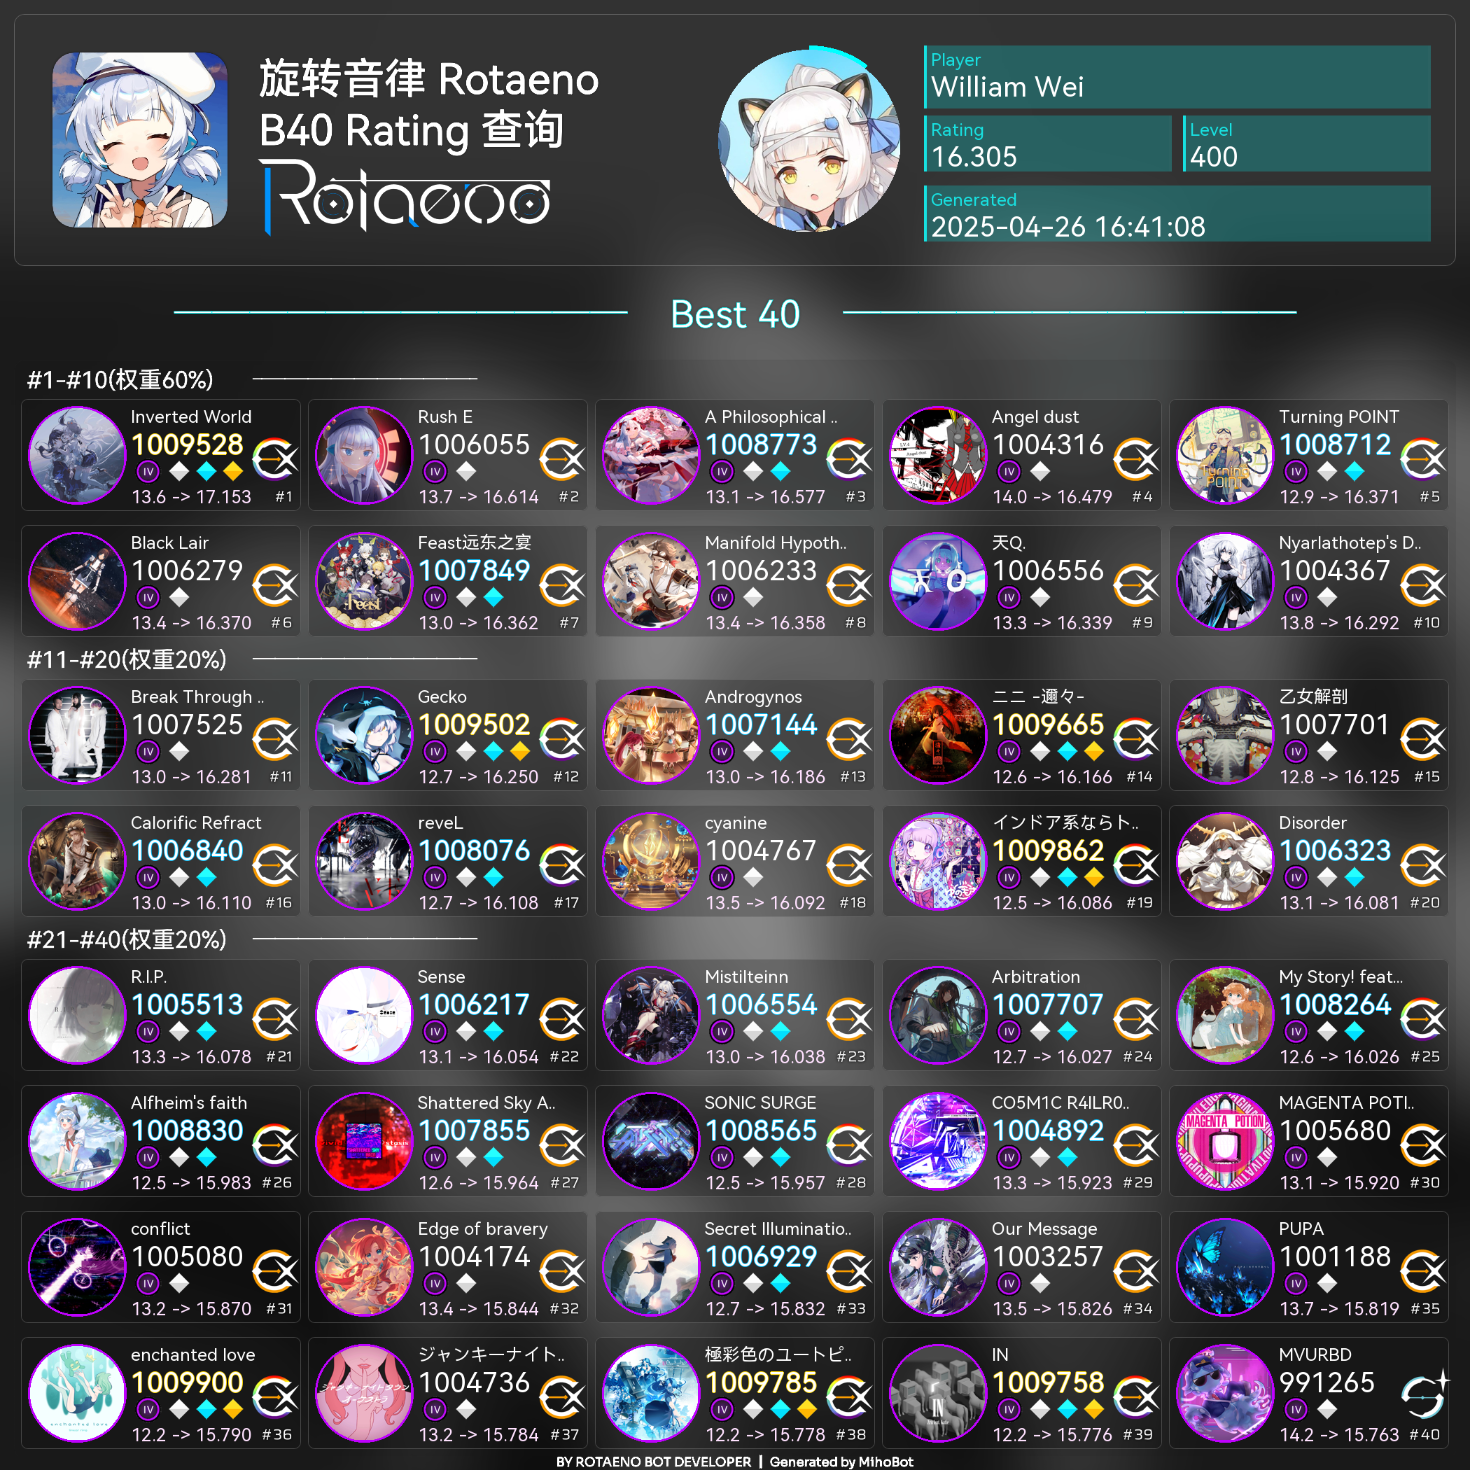
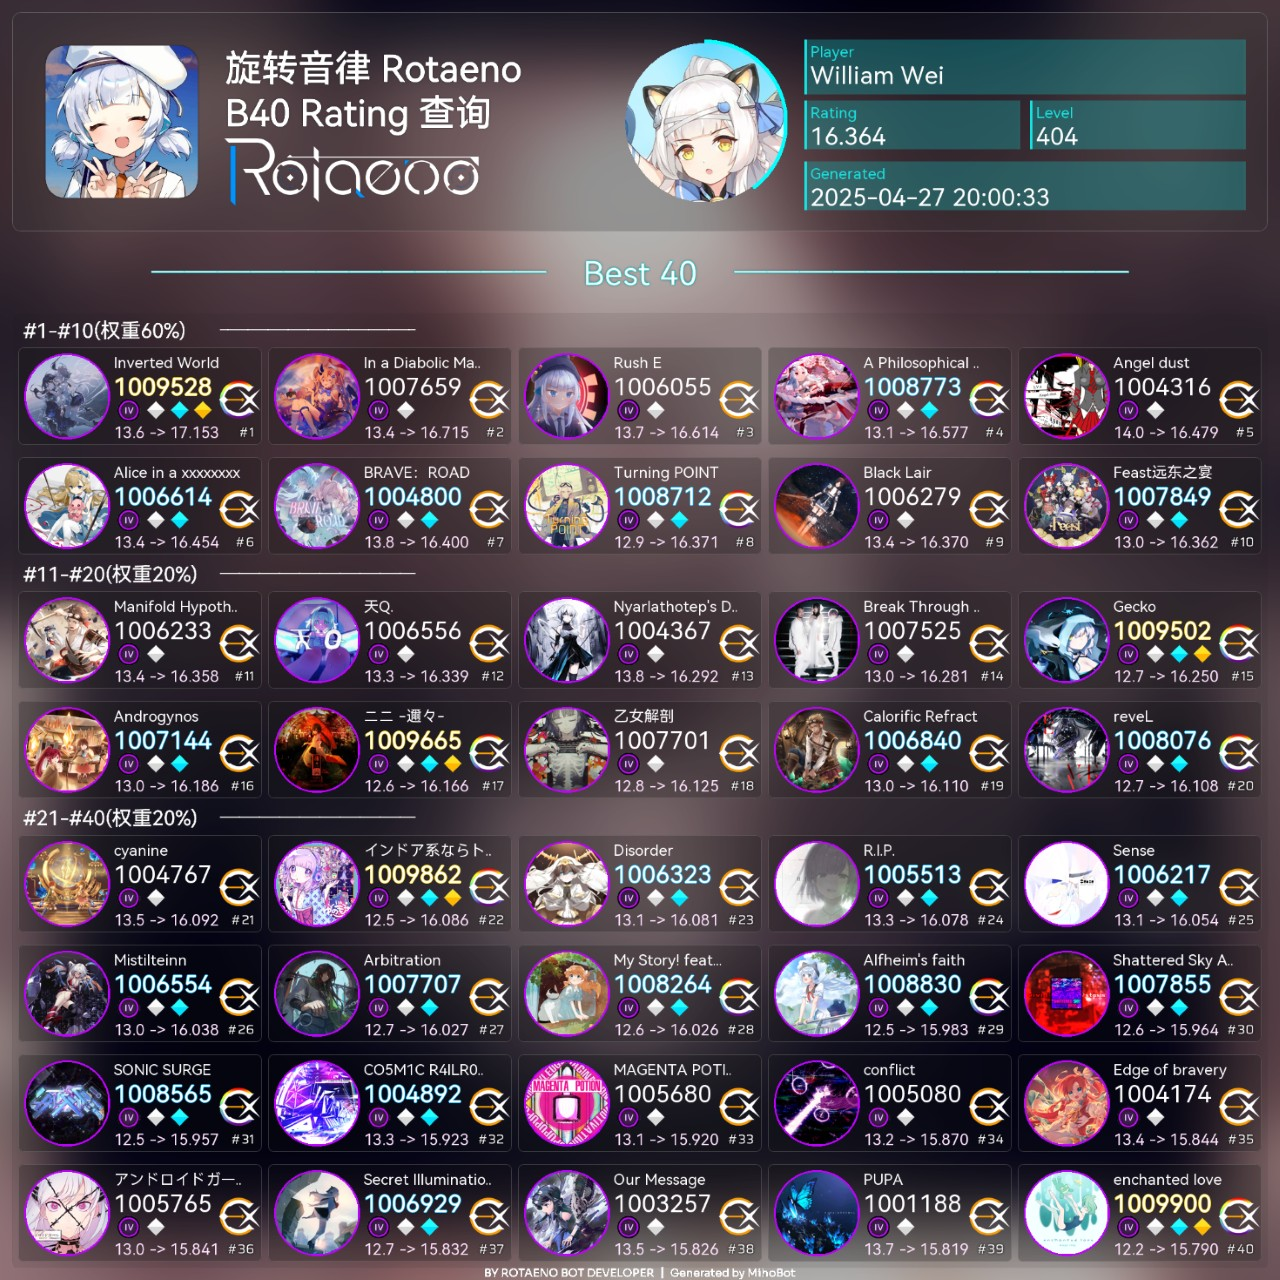
Update MUG

diff --git a/content/page/about/index.md b/content/page/about/index.md
@@ -45,7 +45,7 @@ William Wei（男）
 * 舞萌 DX：从 AstroDX 转生到游戏，现 w4，好友码 `212317908287344`
 * Deemo II：大魔法师成就（国际服），技巧分 319+，零氪藏品全收集，最常玩（因为长期有活动）
 * Phigros：RankingScore 14.13
-* Rotaeno：音律值 2.6 版本改版前 15.784，现改版后 16.250，好友码 `HPMGCP`，基本上只在有活动的时候高强度玩
+* Rotaeno：音律值 2.6 版本改版前 15.784，现改版后 16.364，好友码 `HPMGCP`，基本上只在有活动的时候高强度玩
 * Milthm，Muse Dash，Orzmic，等等
 
 想与我一起打音游？非常欢迎！请到[音游联系方式](/p/mug)找我。
